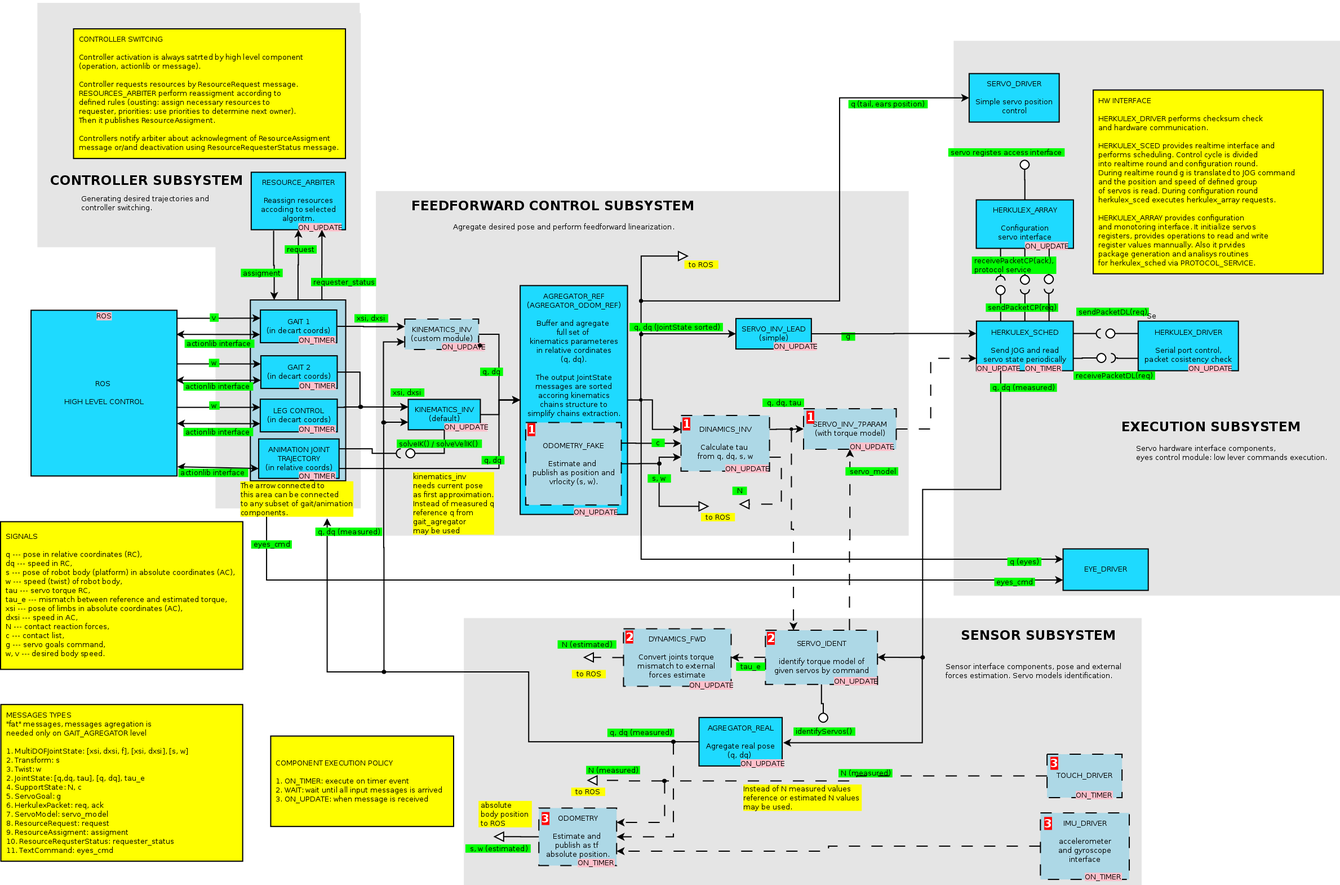
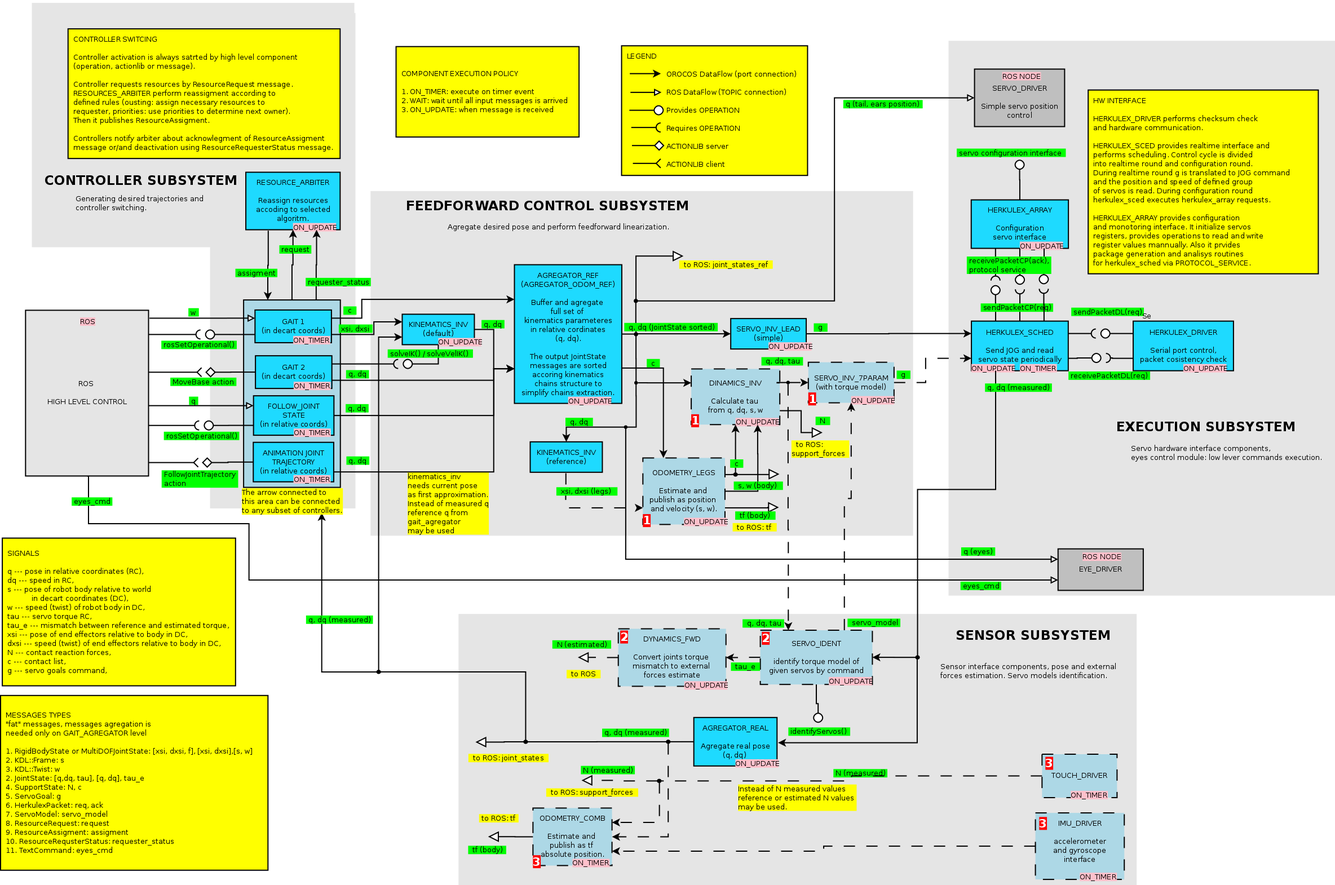
OdometryLegs as separate component. Motion control arch changes. RigidBodyState message.

diff --git a/components-odometry-fake.md b/components-odometry-fake.md
@@ -1,22 +1,19 @@
-Компонент `odometry_fake`
+Компонент `odometry_legs`
 ================
 
-Одометрия на основе задающего воздействия, представленного без использования датчкиво (акселерометр, гироскоп, датчики касания).
-Позволяет рассчитывать движения платформы при исполнении записанных движений. В случае, если задатчик отслеживает 
-движение платформы сам, то не используется.
-
-Комонент может быть объединен с [агрегатором](agregator_gait).
+Одометрия на основе задающего воздействия, представленного без использования датчиков (акселерометр, гироскоп, датчики касания).
+Позволяет рассчитывать движения платформы при исполнении записанных движений. В случае, если задатчик отслеживает движение платформы сам, то не используется.
 
 ### Входные порты
 
-1. `joints_sorted` (`JointState`, EventPort) --- состояние отдельных элементов робота в угловой системе координат, полная упорядоченная поза.
-1. `body` (`MultiDOF`) --- поза и скорость рассчитанная задатчиком (опционально).
-1. `support_sorted` (`SupportState`) --- контакты по рассчету задатчика (если есть).
+1. `limbs_sorted` (`RigidBodyState`, EventPort) --- состояние конечностей робота в абслютной СК, полная упорядоченная поза (все кинематические цепочки) со скоростями.
+1. `body` (`RigidBodyState`) --- поза и скорость рассчитанная задатчиком (опционально, сбрасывает текущую позу по одометрии).
+1. `support_sorted` (`SupportState`) --- контакты по расчету задатчика (опционально, позволяют не выдвигать предположений о списке контактов).
 1. `sync_step` (`SupportState`) --- синхронизация цикла управления
 
 ### Выходные порты
 
-1. `body` (`MutiDOFJointState`) --- расчетная поза и скорость тела робота.
+1. `body` (`RigidBodyState`) --- расчетная поза и скорость тела робота.
 1. `tf` (`Transformation`) --- поза тела робота для публикации в `\tf`.
 1. `support` (`SupportState`) --- предполагаемые контакты.
 
@@ -24,6 +21,7 @@
 
 1. `position_tolerance` (`double`) --- допустимые отклонения по позиции при определнии контактов, метры
 1. `angle_tolerance` (`double`) --- допустимые отклонения по углу при определнии контактов, радианы.
+1. `legs` (`srings`) --- список ног робота (4 штуки).
 
 ### Плагины
 
@@ -32,10 +30,10 @@
 
 ### Семантика исполнения
 
-Предполагется, что
+Предполагался, что
 * при контакте копыто всегда ориентированно параллельно поверхности,
 * поверхность представляет собой плоскость, 
-* ось Oz копыта направлена вниз,
+* ось Oy копыта направлена вверх,
 * число опорных ног не меньше двух.
 
 Компонент работает с СК, связанной с землей.
@@ -45,29 +43,29 @@
 1. **Определение контактов**. Перебираются всевозможные комбинации контактов (1 + 4 + 6), для каждого вычисляется опорная плоскость 
     (нормаль --- средняя нормаль копыт, точка --- средння точка центров опорных площадок), потом проверяются следующие условия:
     * отклонение нормалей опорных копыт не больше `angle_tolerance`,
-    * отклонерие центоров опорных копыт не больше `position_tolerance`,
-    * свободные копыта находятся в отрицательном полупространстве.
+    * отклонение центров опорных копыт не больше `position_tolerance`,
+    * свободные копыта находятся в положительном полупространстве.
 
-    Если получено сообщение `support`, то используется его значение.
+    Если получено сообщение `support`, то используется его значение, вычисления не проводятся.
 
 2. **Сохранение позиции нового контакта**. Если появился новый контакт, то его позиция сохраняется.
 
-3. **Расчет позиции**. Если есть минимум пара контактов, сохранвшихся за цикл управления, то по их координатам и их нормалям с учетом сохраненных позиций рассчитывается поза платформы 
+3. **Расчет позиции**. Если есть минимум пара контактов, сохранявшихся за цикл управления, то по их координатам и их нормалям с учетом сохраненных позиций рассчитывается поза платформы 
     [Estimating 3-D rigid body transformations: a comparison of four major algorithms]. Если нужного числа контактов нет, то проводится интегрирование скорости.
 
-    Если получено сообщение `body`, то используется его значение.
+    Если получено сообщение `body`, то используется его значение, рассчеты не проводятся.
 
 4. **Расчет скорости**. Путем решения СЛАУ для якобиана рассчитываются скорости.
 
     Если получено сообщение `body`, то используется его значение.
 
-**Замечание**. Компоннет должен решать задачу прямой кинематики для всех четырех ног. Поэтому для сокращения объема вычислений он может публиковать:
+<!--**Замечание**. Компоннет должен решать задачу прямой кинематики для всех четырех ног. Поэтому для сокращения объема вычислений он может публиковать:
     * результат решения задачи прямой кинематики в `\tf`, что позволит избавится от `robot_state_publisher`,
     * якобиан для ключевых точек (контакты без копыта, голова, тело),
     * поза в и скорости прямой кинематике для копыт и головы.
-В таком случае его следует объединить с `agregator` или переименовать `kinematics_fwd_odom`.
+В таком случае его следует объединить с `agregator` или переименовать `kinematics_fwd_odom`.-->
 
-**Замечание**. При ручном управлении робота из rviz имеет смысл добвить в редактор траектории интерфейс для 
+**Замечание**. При ручном управлении робота из rviz необходимо добвить в редактор траектории интерфейс для 
 принудительного назначения текущих опорных ног робота.
 
 #### Детали реализации.
@@ -77,8 +75,8 @@
 ### Ошибки и исключения
 
 Ошибка:
-1. некоррекная `joint_state` или `supports`.
+1. Некорректная `limbs` или `supports`.
 
 Предупреждение:
-1. невозможно определить опорные ноги.
+1. Невозможно определить опорные ноги.
 

diff --git a/components-dynamics.md b/components-dynamics.md
@@ -9,31 +9,33 @@
 ### Входные порты
 
 1. `joints_sorted` (`JointState`, EventPort) --- состояние робота в угловой СК: позиции, скорости. Полная поза робота.
-1. `body` (`MultiDOFJointState`) --- позиция и скрость платформы.
+1. `body` (`RigidBodyState`) --- позиция и скорость платформы.
 1. `contacts_sorted` (`SupportState`) --- список контактов.
 
 ### Выходные порты
 
 1. `joints` (`JointState`) --- состояние робота в угловой СК: позиции, скорости, моменты приводов.
-1. `contacts` (`SupportState`) --- силы реакции опоры для контактов.
+1. `contacts` (`SupportState`) --- силы реакции опоры для контактов (y-компонента).
+1. `contact_forces` (`WrenchStamped`) --- силы реакции опоры для контактов (для визуализации).
 
 ### Параметры
 
-2. `trasient_time_dfilt` (`double`) --- постоянная времени дифференцирующего фильтра.
+2. `dfilt_traтsient_time` (`double`) --- постоянная времени дифференцирующего фильтра.
 
 ### Операции
 
-### Сервисы и плагины
+### Сервис и плагины
 
-1. Требует загрузки: [`RobotModelURDF`](plugin-robotmodel). 
+1. Требует: [`RobotModelURDF`](plugin-robotmodel). 
+1. Требует загрузки: дифференцирующий фильтр (второй этап реализации).
 
 ### Семантика исполнения
 
 При решении обратной задачи динамики предполагается, что при контакте копыто всегда ориентированно параллельно поверхности, его конструкция такова, что оси двух последних звеньев пересекаютсяю.
 Это позволяет сделать ряд упрощений:
 
-1. Считать, что контакт проиходит в точке (0,0,0) в СК последнего звена.
-2. Рассчитывать только якобиан для поступательного движения точки контакта.
+1. Считать, что контакт происходит в точке (0,0,0) в СК последнего звена.
+2. Рассчитывать якобиан только для поступательного движения точки контакта.
 
 **Конфигурация**. Загрузка модели.
 
@@ -45,7 +47,7 @@
 3. Рассчитать матрицу инерции `H(q)`, используя библиотеку динамики.
 4. Вычислить проектор `Nc`.
 5. Вычислить моменты приводов по формуле (3.99).
-5. Вычислить силы реакции опоры (3.61). (Упрощение? Это по сути та же иерархическая задача, отностьельно (`tau`,`N`)).
+5. Вычислить силы реакции опоры (3.61). (Упрощение? Это по сути та же иерархическая задача, относительно (`tau`,`N`)).
 
 
 ### Детали реализации.
@@ -55,7 +57,9 @@
 
 Лучше использовать упрощенную URDF модель без глаз, ушей и хвоста. Лишние координаты во входной позе просто игнорируются.
 
-Рассчеты ведутся в инерциальной СК, связанной с землей. 
+Используется библиотека RDBL. Проблему может составить проверка совпадения нумерации приводов.
+
+Расчеты ведутся в инерциальной СК, связанной с землей. 
 
 Для вычисления [псевдообратной матрицы](https://ru.wikipedia.org/wiki/Псевдообратная_матрица) следует использовать SVD разложение.
 
@@ -77,12 +81,12 @@
 ### Входные порты
 
 1. `joints_sorted` (`JointState`, EventPort) --- состояние робота в угловой СК: позиции, скорости. Полная поза робота.
-1. `body` (`MultiDOFJointState`) --- позиция и скрость платформы.
+1. `body` (`RigidBodyState`) --- позиция и скорость платформы.
 
 ### Выходные порты
 
 1. `contacts` (`SupportState`) --- силы реакции опоры для выбранного списка точке (z-компонента силы в заданной точке).
-1. `forces` (`MultiDOFJointState`) --- 6-мерные внешние силы для указанного списка точек (опционально).
+1. `forces` (`WrenchStamped`) --- 6-мерные внешние силы для указанного списка точек (опционально).
 
 ### Параметры
 
@@ -97,11 +101,11 @@
 
 ### Семантика исполнения
 
-Выполняет пересчет моментов приводов к заданным точкам, используя псевдообращение якобиана. (Проверить корректность).
+Выполняет пересчет моментов приводов к заданным точкам, используя псевдообращение якобиана. (Проверить корректность операции).
 
 ### Детали реализации.
 
-Задача совдится к решению переопределенной СЛАУ.
+Задача сводится к решению переопределенной СЛАУ.
 
 ### Исключения и ошибки
 

diff --git a/motion-control.md b/motion-control.md
@@ -67,12 +67,14 @@
 
 #### Основная идея
 
-Агрегатор [`agregator_odom_ref`](components-agregator-gait) формирует полную желаему позу робота `q`, `dq` в угловой СК (`JointState`) и рассчетную скорость и позицию тела робота `s`, `w` в абсолютной СК.
-Скорость и позиция тела робота может формироваться либо самими задатчиками, либо рассчитываться из предполагаемых контактов с опорной поверхностью.
+Агрегатор [`agregator_ref`](components-agregator-gait) формирует полную желаемую позу робота `q`, `dq` в угловой СК (`JointState`), также он агрегирует информацию о контактах от задатчиков.
+Компонент прямой кинематики [`kinematics_fwd`](components-kinepatics) рассчитывает положения концов ног и головы и их скорости.
+Далее модуль одометрии [`odometry_legs`](components-odometry-fake), либо используя информацию о опорных ногах полученную от агрегатора, 
+либо определяя предполагаемый список контактов, рассчитывает позу  `s` и скорость `w` платформы (тела) робота.
 
-Эта поза (`q`, `dq`, `s`, `w`) поступает на вход модуля обратной динамики [`dynamics_inv`](components-dynamics), который по динамической модели робота 
+Полная поза робота (`q`, `dq`, `s`, `w`) поступает на вход модуля обратной динамики [`dynamics_inv`](components-dynamics), который по динамической модели робота 
 [[Robot Dynamics Lecture Notes](https://www.ethz.ch/content/dam/ethz/special-interest/mavt/robotics-n-intelligent-systems/rsl-dam/documents/RobotDynamics2016/RD2016script.pdf), формула (3.99)] 
-рассчитывают моменты приводов `tau` и силы реакции опоры `N` в точках контакта. Для рассчетов динамики придется вычислять ускорения, численно дифференциируюя скорость.
+рассчитывают моменты приводов `tau` и силы реакции опоры `N` в точках контакта. Для расчетов динамики придется вычислять ускорения, численно дифференциируюя скорость.
 Динамическая модель робота загружется из URDF.
 
 Компонент обращения приводов [`servo_inv_7param`](components-servo-inv) по желаемым позициям `q`, скоростям `dq` и рассчетным усилиям приводов `tau` определяют команды для приводов, 
@@ -85,6 +87,11 @@
 Также компонент рассчитывает расхождение `tau_e` между расчетным моментом по задающему воздействию (`tau`) и по модели привода. Это расхождение является оценкой внешних сил, действующих на конечность.
 
 Компонент `dynamics_fwd` пересчитывает моменты приводов в значения эквивалентных внешних сил, приложенных к конечности или иному элементу робота.
+
+Правильный порядок исполнения обеспечивается:
+1. назначением Event портов "по последнему",
+2. таймером,
+3. приоритетами.
 
 #### Особенности
 
@@ -102,7 +109,7 @@
     На текущий момент предлагается оставить как есть.
 
 
-Система второго цикла
+Система третьего этапа
 ---------------------
 
 Полноценное управление походкой с учетом динамики робота. Помимо возможностей второго цикла обеспечивает исполнение условий касания (силы реакции опоры положительны, силы трения в конусах),

diff --git a/message-types.md b/message-types.md
@@ -194,6 +194,32 @@ float64 delta
 В текущем проекте нет задач, для которых это понадобилось бы силовое взаимодействие (шлифовка, мытье полов, переноска яиц?). Однако он может использоваться вместо 
 структуры `SupportState`.
 
+### RigidBodyState
+
+**Семантика**: дублирует `MultiDOFJointState`. Cостояние группы кинематической цепочки в декартовой СК. Положение, ориентация, скорость конца цепочки относительно ее основания. 
+Цепочка задается именем.
+
+**Прагматика**: типы `geometry_msgs` неудобны для вычислений, требуются дополнительные преобразования для вызова функций KDL. Сообщение предполагается использовать внутри подсистемы
+OROCOS для более удобной передачи данных.
+
+     # State vectors of the group of kinematics chains. It is assumed that all chains are linked to robot frame.
+     #  * joint_names --- the name of kinematic chain (multiDOF joint).
+     #  * transforms --- the last segment pose in coordinate system of kinematic chain base (robot frame).
+     #  * twist --- the last segment speed.
+     #  * wrench --- force applied to the last segment in robot frame coordinates (maybe world coordinates?)
+     #
+     # All arrays sould have the same size. Presece of limb, position and speed fields is necessary.
+
+     Header header
+     string[] joint_names
+     kdl/Frame[] transforms
+     kdl/Twist[] twist
+     kdl/Wrench[] wrench
+
+**Замечание**: если типы KDL не поддерживаются ROS, то сообщение придется создавать штатными средствами OROCOS.
+
+**Замечание**: если отказаться от его реализации, то тип заменяется `MultiDOFJointState`.
+
 ### SupportState
 
 **Семантика**: распределение веса робота по конечностям в относительных или абсолютных единицах измерения. 
